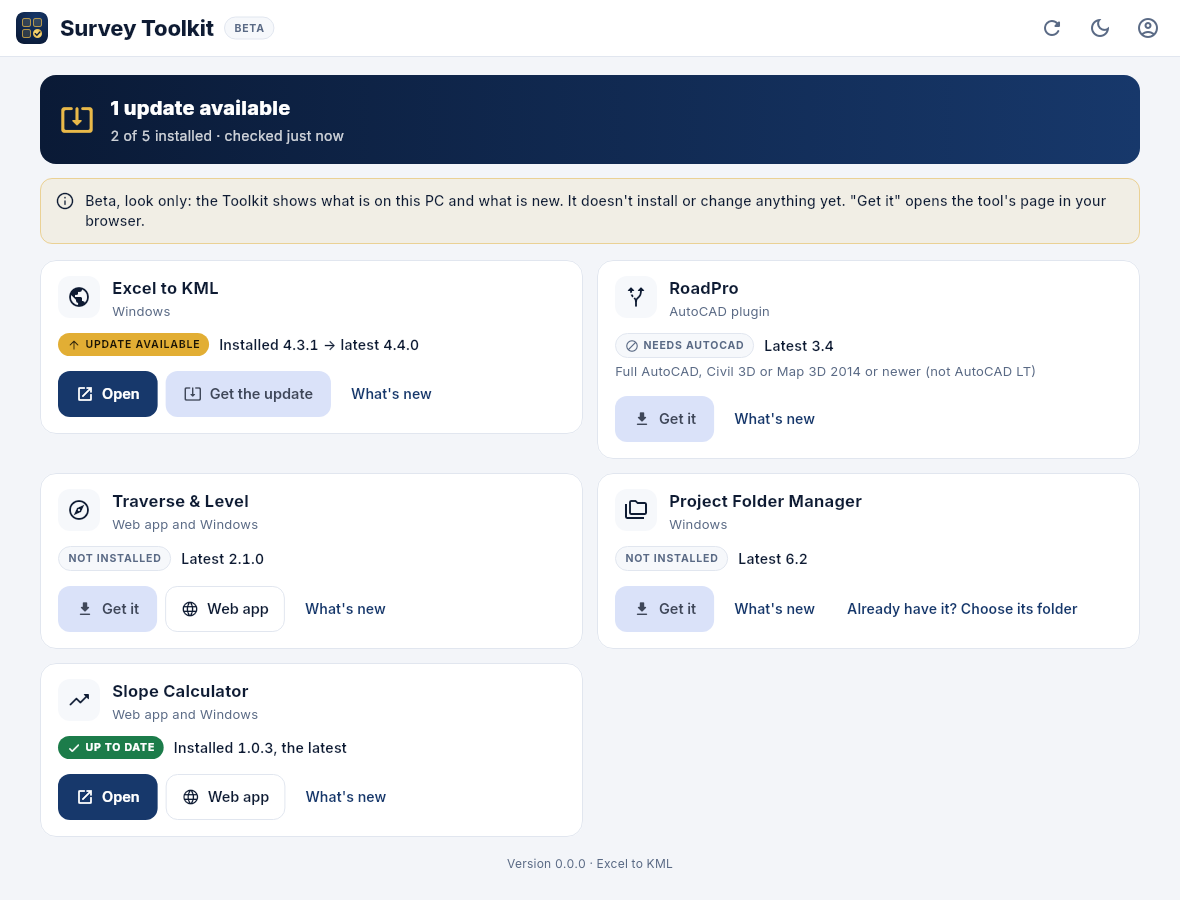
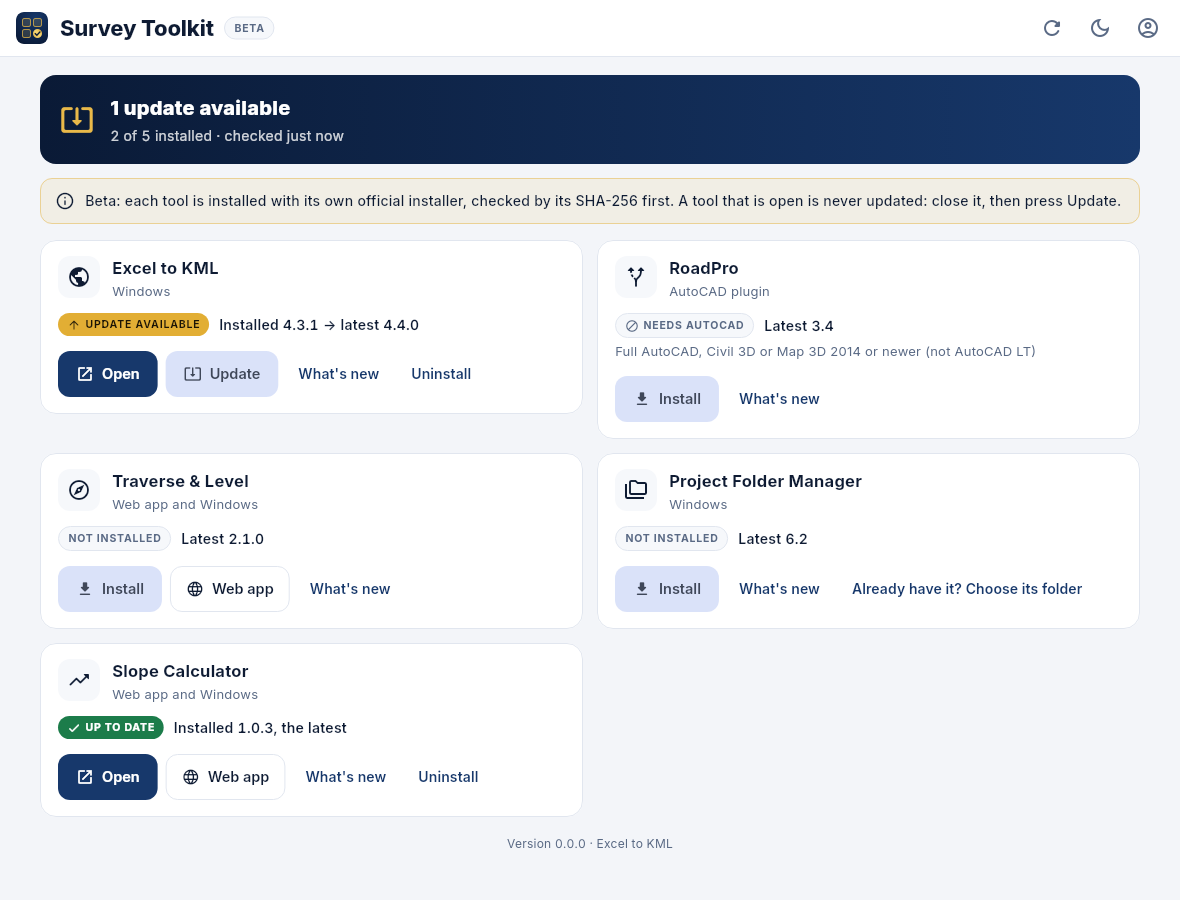
T3: screenshots of an update; Uninstall waits during a job (test)
docs/screenshots: an update in progress, done, and refused while the tool is
open. The card test also checks that no Uninstall can be pressed while a job
runs.

Claude-Session: https://claude.ai/code/session_01WBEY1H8rXcGm4de5BZo5nb

diff --git a/test/shots_test.dart b/test/shots_test.dart
@@ -1,5 +1,6 @@
 // Pictures of the Toolkit's screens with its real fonts, for docs and for the owner to see them.
 // Only when SHOTS_DIR is set:  SHOTS_DIR=/tmp/shots flutter test test/shots_test.dart
+import 'dart:async';
 import 'dart:io';
 import 'dart:ui' as ui;
 
@@ -8,6 +9,7 @@ import 'package:flutter/rendering.dart';
 import 'package:flutter/services.dart';
 import 'package:flutter_test/flutter_test.dart';
 import 'package:survey_toolkit/src/state/store.dart';
+import 'package:survey_toolkit/src/toolkit/installer.dart';
 
 import 'fakes.dart';
 
@@ -36,7 +38,14 @@ void main() {
     await _font('MaterialIcons', ['$flutterRoot/bin/cache/artifacts/material_fonts/MaterialIcons-Regular.otf']);
   });
 
-  Future<void> shot(WidgetTester t, String name, Harness h, Size size, {bool dark = false}) async {
+  Future<void> shot(
+    WidgetTester t,
+    String name,
+    Harness h,
+    Size size, {
+    bool dark = false,
+    Future<void> Function()? before,
+  }) async {
     t.view.physicalSize = size;
     t.view.devicePixelRatio = 1;
     addTearDown(t.view.reset);
@@ -44,6 +53,7 @@ void main() {
     final key = GlobalKey();
     await t.pumpWidget(RepaintBoundary(key: key, child: h.app));
     await settle(t);
+    if (before != null) await before();
     final boundary = key.currentContext!.findRenderObject()! as RenderRepaintBoundary;
     await t.runAsync(() async {
       final image = await boundary.toImage(pixelRatio: 1);
@@ -67,5 +77,43 @@ void main() {
     await shot(t, '3-tools', Harness(site: FakeSite(), store: signedInStore()), desktop);
     await shot(t, '4-tools-dark', Harness(site: FakeSite(), store: signedInStore()), desktop, dark: true);
     await shot(t, '5-tools-phone-size', Harness(site: FakeSite(), store: signedInStore()), const Size(400, 860));
+
+    final updating = FakeInstaller()..gate = Completer<void>();
+    await shot(
+      t,
+      '6-updating',
+      Harness(site: FakeSite(), store: signedInStore(), installer: updating),
+      desktop,
+      before: () async {
+        await t.tap(find.text('Update'));
+        await t.pump();
+      },
+    );
+    updating.gate!.complete();
+    await settle(t);
+
+    final done = FakeInstaller()..next = const JobResult.done('Excel to KML is updated to 4.4.0.', version: '4.4.0');
+    final blocked = FakeInstaller()
+      ..next = const JobResult.blocked('Close Excel to KML first, then press Update again.');
+    await shot(
+      t,
+      '7-updated',
+      Harness(site: FakeSite(), store: signedInStore(), installer: done),
+      desktop,
+      before: () async {
+        await t.tap(find.text('Update'));
+        await settle(t);
+      },
+    );
+    await shot(
+      t,
+      '8-tool-open',
+      Harness(site: FakeSite(), store: signedInStore(), installer: blocked),
+      desktop,
+      before: () async {
+        await t.tap(find.text('Update'));
+        await settle(t);
+      },
+    );
   }, skip: _dir == null);
 }

diff --git a/test/app_test.dart b/test/app_test.dart
@@ -132,6 +132,11 @@ void main() {
       find.ancestor(of: find.text('Install'), matching: find.byWidgetPredicate((w) => w is ButtonStyleButton)),
     );
     expect(installs.every((b) => b.onPressed == null), isTrue);
+    final uninstalls = t.widgetList<ButtonStyleButton>(
+      find.ancestor(of: find.text('Uninstall'), matching: find.byWidgetPredicate((w) => w is ButtonStyleButton)),
+    );
+    expect(uninstalls, isNotEmpty);
+    expect(uninstalls.every((b) => b.onPressed == null), isTrue);
 
     installer.gate!.complete();
     await settle(t);
